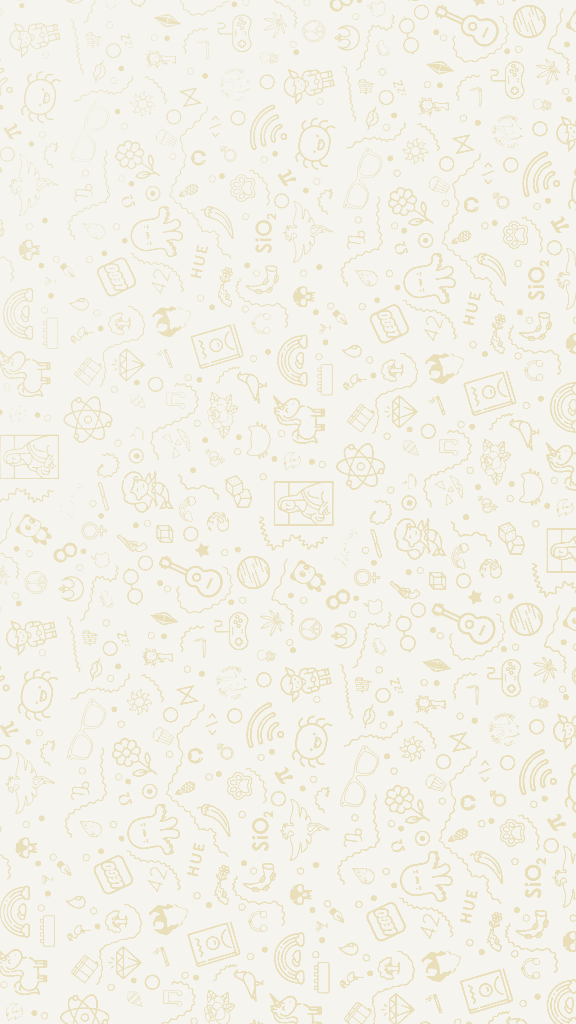
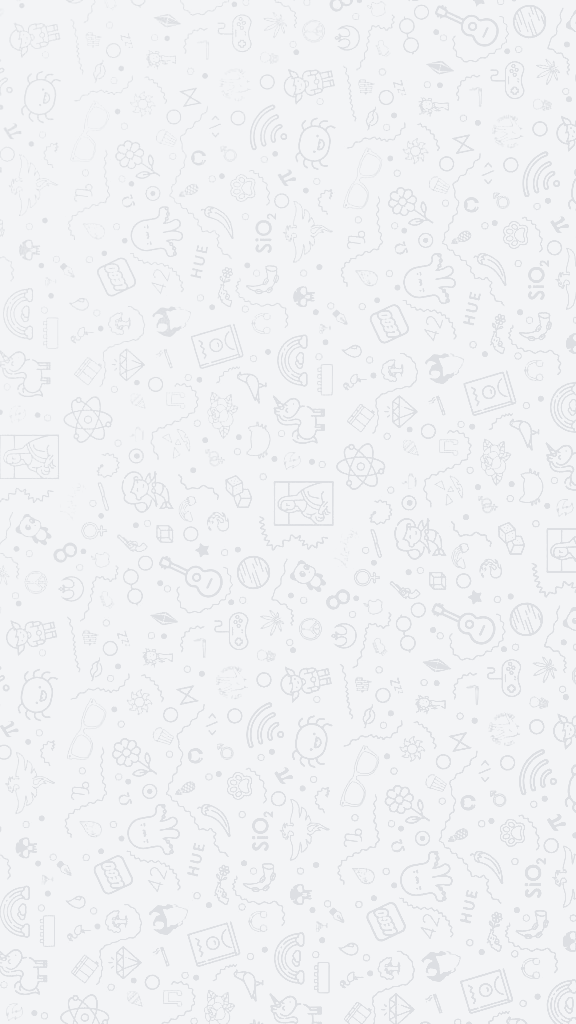
style(crm): chat background in neutral gray so the yellow bubbles stand out

diff --git a/app/pantalla/js/50-agentes.js b/app/pantalla/js/50-agentes.js
@@ -1098,7 +1098,7 @@ document.getElementById('msgs').addEventListener('click', e => {
 });
 document.head.insertAdjacentHTML('beforeend', `<style>
 /* Maqueta aprobada «chat con archivos, notas de voz y emojis» (14-oct): fondo de trazos dorados y lo enviado en amarillo. */
-#msgs.msgs{gap:16px;padding:22px 28px;background-color:#f5f4ef;background-image:url('__BASE__/img/fondo-chat.png');background-size:288px auto}
+#msgs.msgs{gap:16px;padding:22px 28px;background-color:#f3f4f6;background-image:url('__BASE__/img/fondo-chat.png?v=gris');background-size:288px auto}
 .ch-fila{display:flex;align-items:flex-end;gap:10px;max-width:100%}
 .ch-fila.yo{justify-content:flex-end}
 .ch-av{width:32px;height:32px;font-size:11px;flex:none;align-self:flex-end;margin-bottom:21px}
